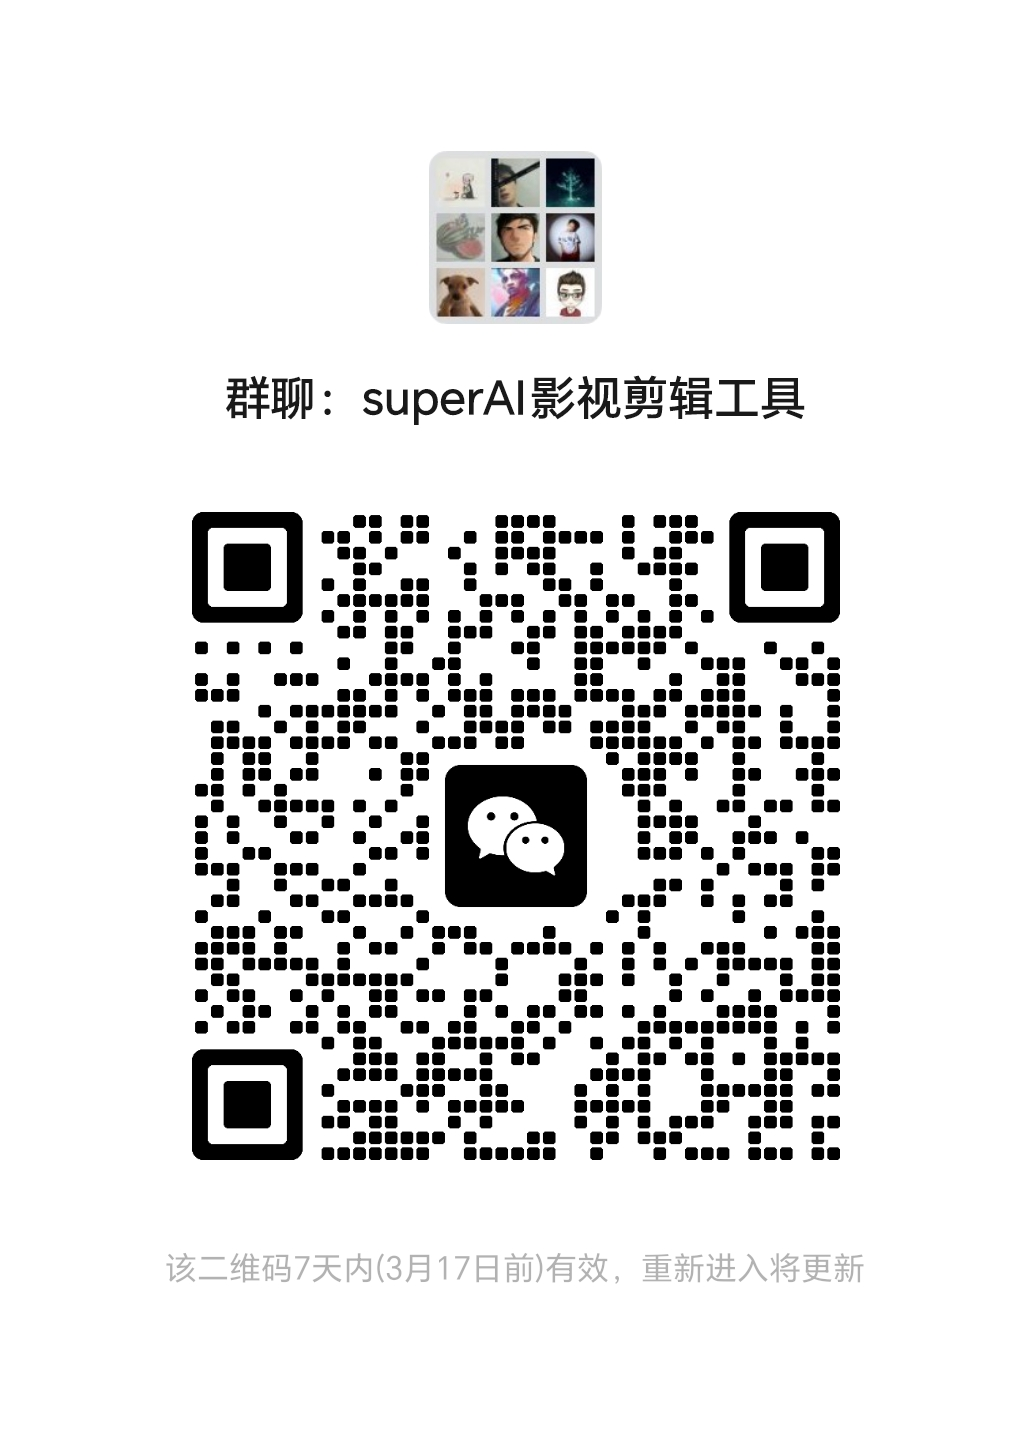
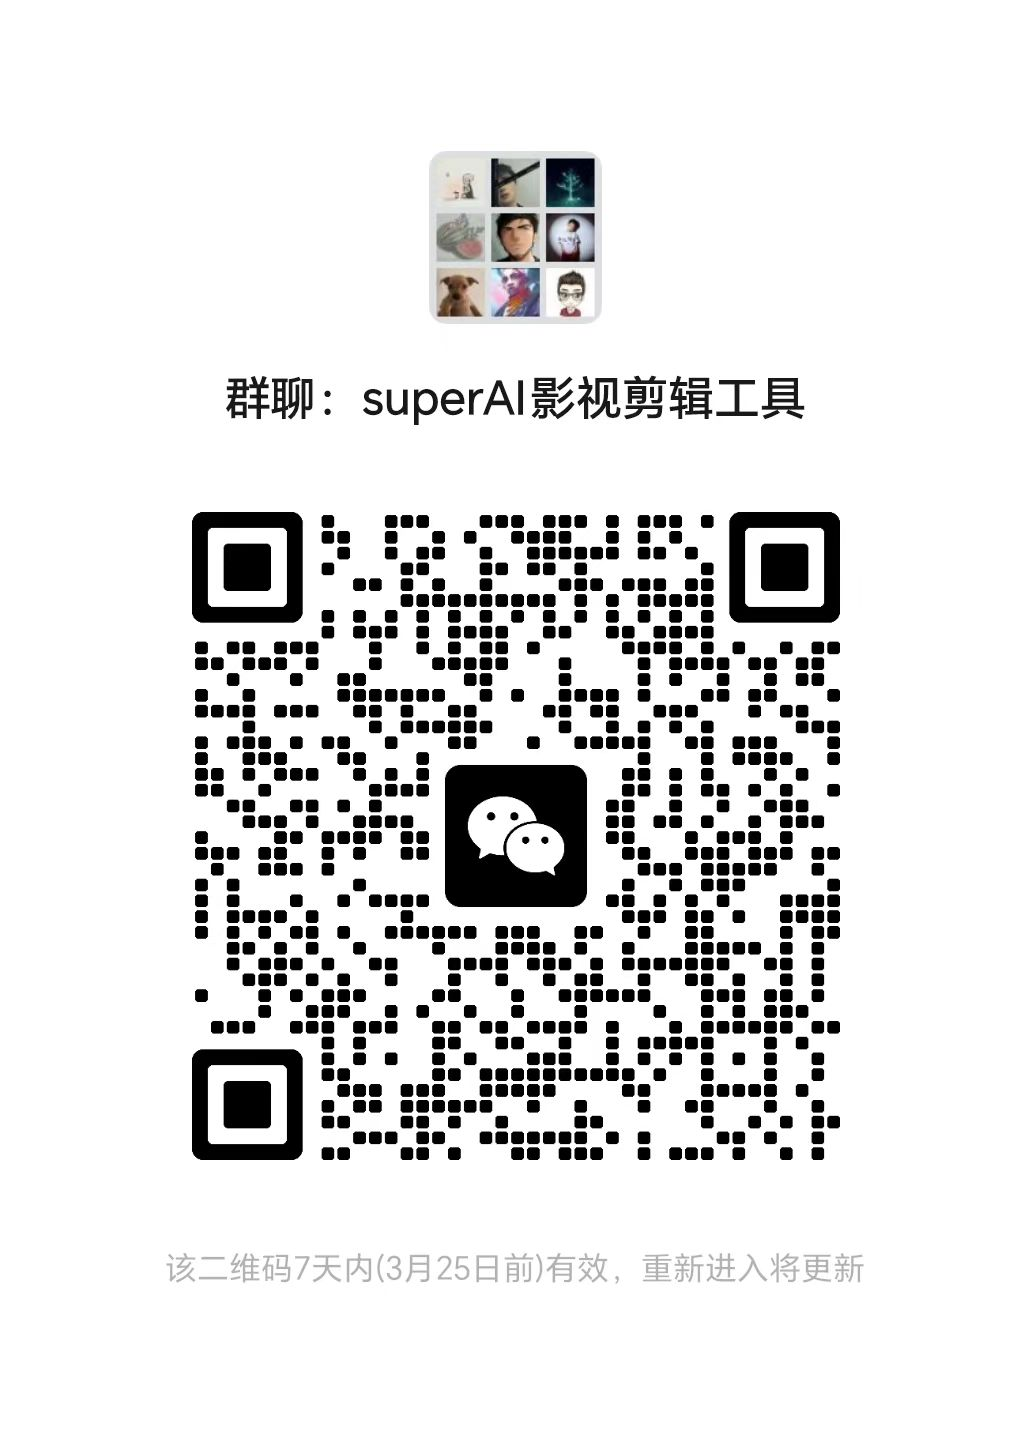
docs: 更新README和图片资源
- 更新README中的标题和功能描述
- 添加新的亮点特性和修复问题列表
- 更新微信群的图片资源

Changed region(s): [[0.1862, 0.3438, 0.838, 0.8125], [0.4345, 0.875, 0.4656, 0.9062]]

diff --git a/README.md b/README.md
@@ -1,8 +1,9 @@
 <img src="frontend/src/assets/logo.png" alt="SuperAI影视剪辑 Logo" width="120" />
 
-# SuperAI·AutoCutVideo · AI智能视频剪辑
+# SuperAI·AutoCutVideo · AI智能影视剪辑
 - 轻量、跨平台的一站式智能视频处理桌面应用，短剧、影视解说剪辑，开箱即用，支持通过字幕、视觉分析自动剪辑。（免费）
-- 2026-03-02视觉推理代码已经更新（v1.2.2版本
+- 部分电脑暂时无法使用全部功能
+
 <div align="center">
   <h3>✨ 视觉推理（核心功能）</h3>
   <img src="docs/image/支持视觉推理.png" alt="支持视觉推理" width="500" />
@@ -26,6 +27,7 @@
 
 
 ## 亮点特性
+- 2026-03-18: 支持云雾API平台、302ai平台、qwentts配音在线版
 - 2026-03-02: 视觉推理视频功能（moondream分析帧）
 - 2026-02-20: 本地ASR识别字幕
 - 2026-02-09: Qwen-tts配音、添加手动剪辑片头片尾
@@ -64,6 +66,7 @@
 
 
 ### 解决问题
+1. 修复funasr无法识别外语
 3. 对uploads的垃圾数据进行清理
 4. 缓存目录uploads更新无效的问题
 5. 打开应用启动了两个后端服务，导致更改uploads目录失败问题
